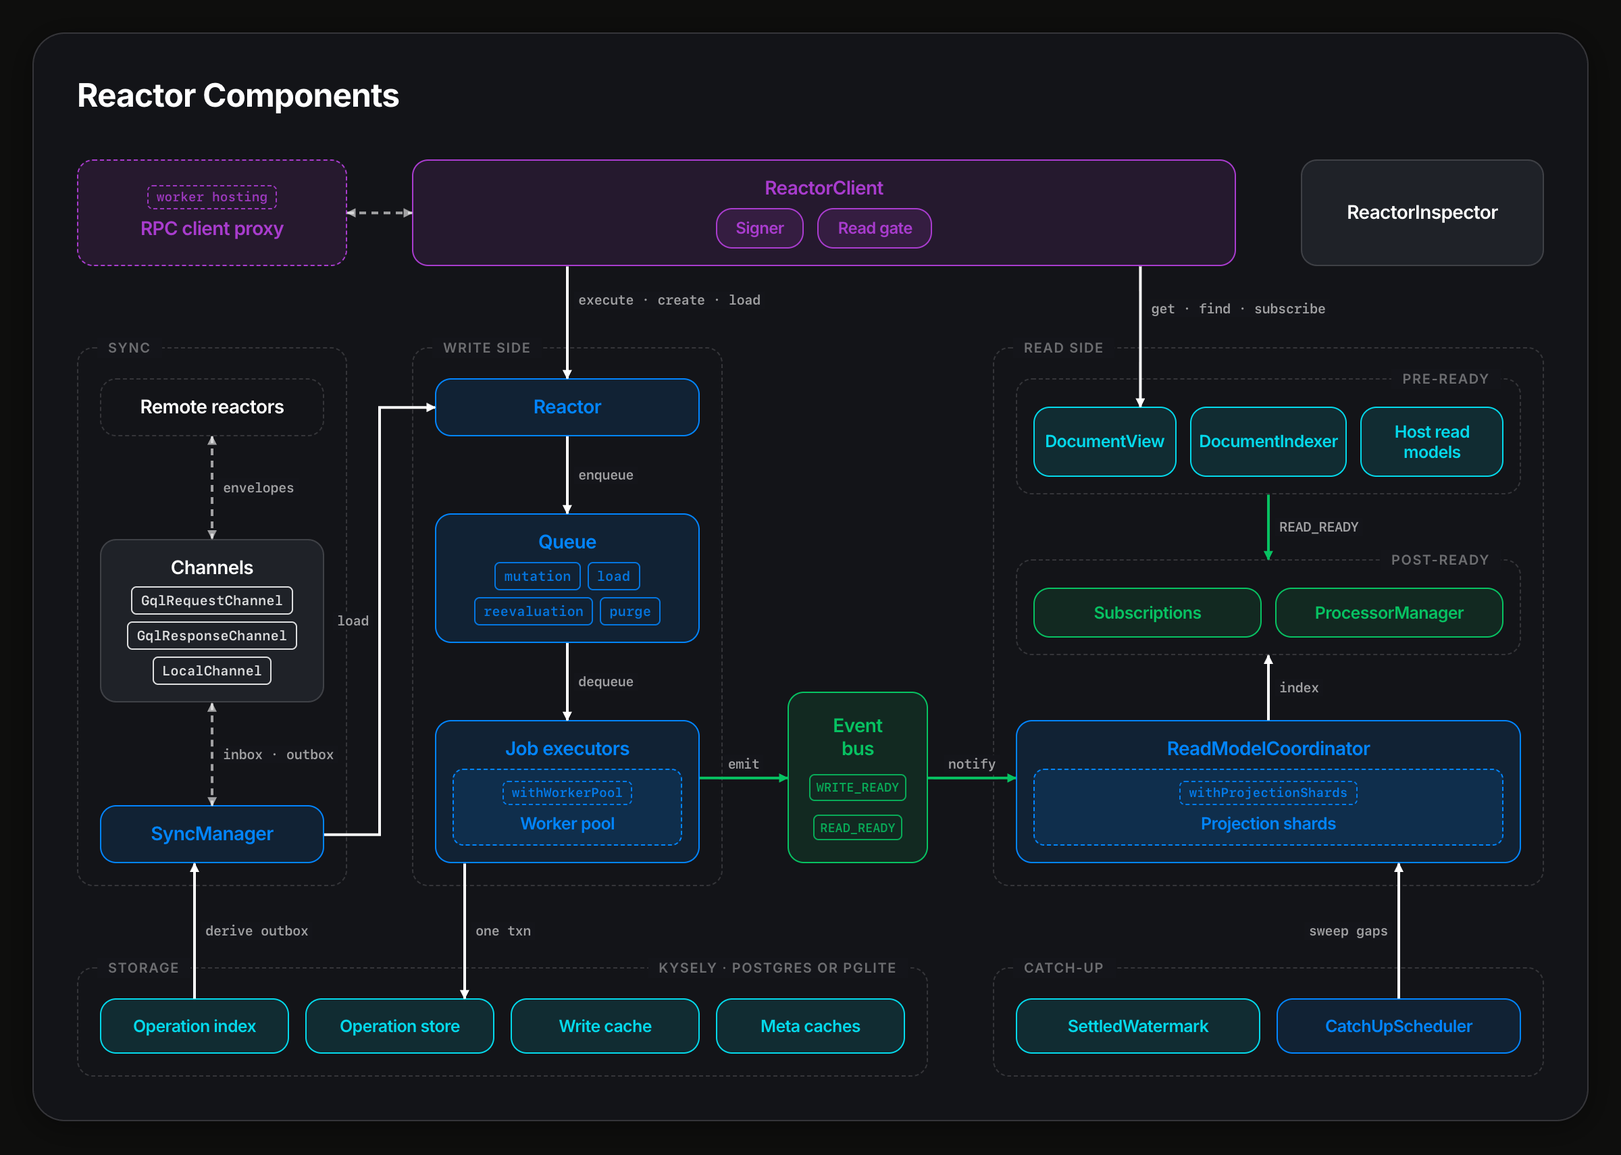
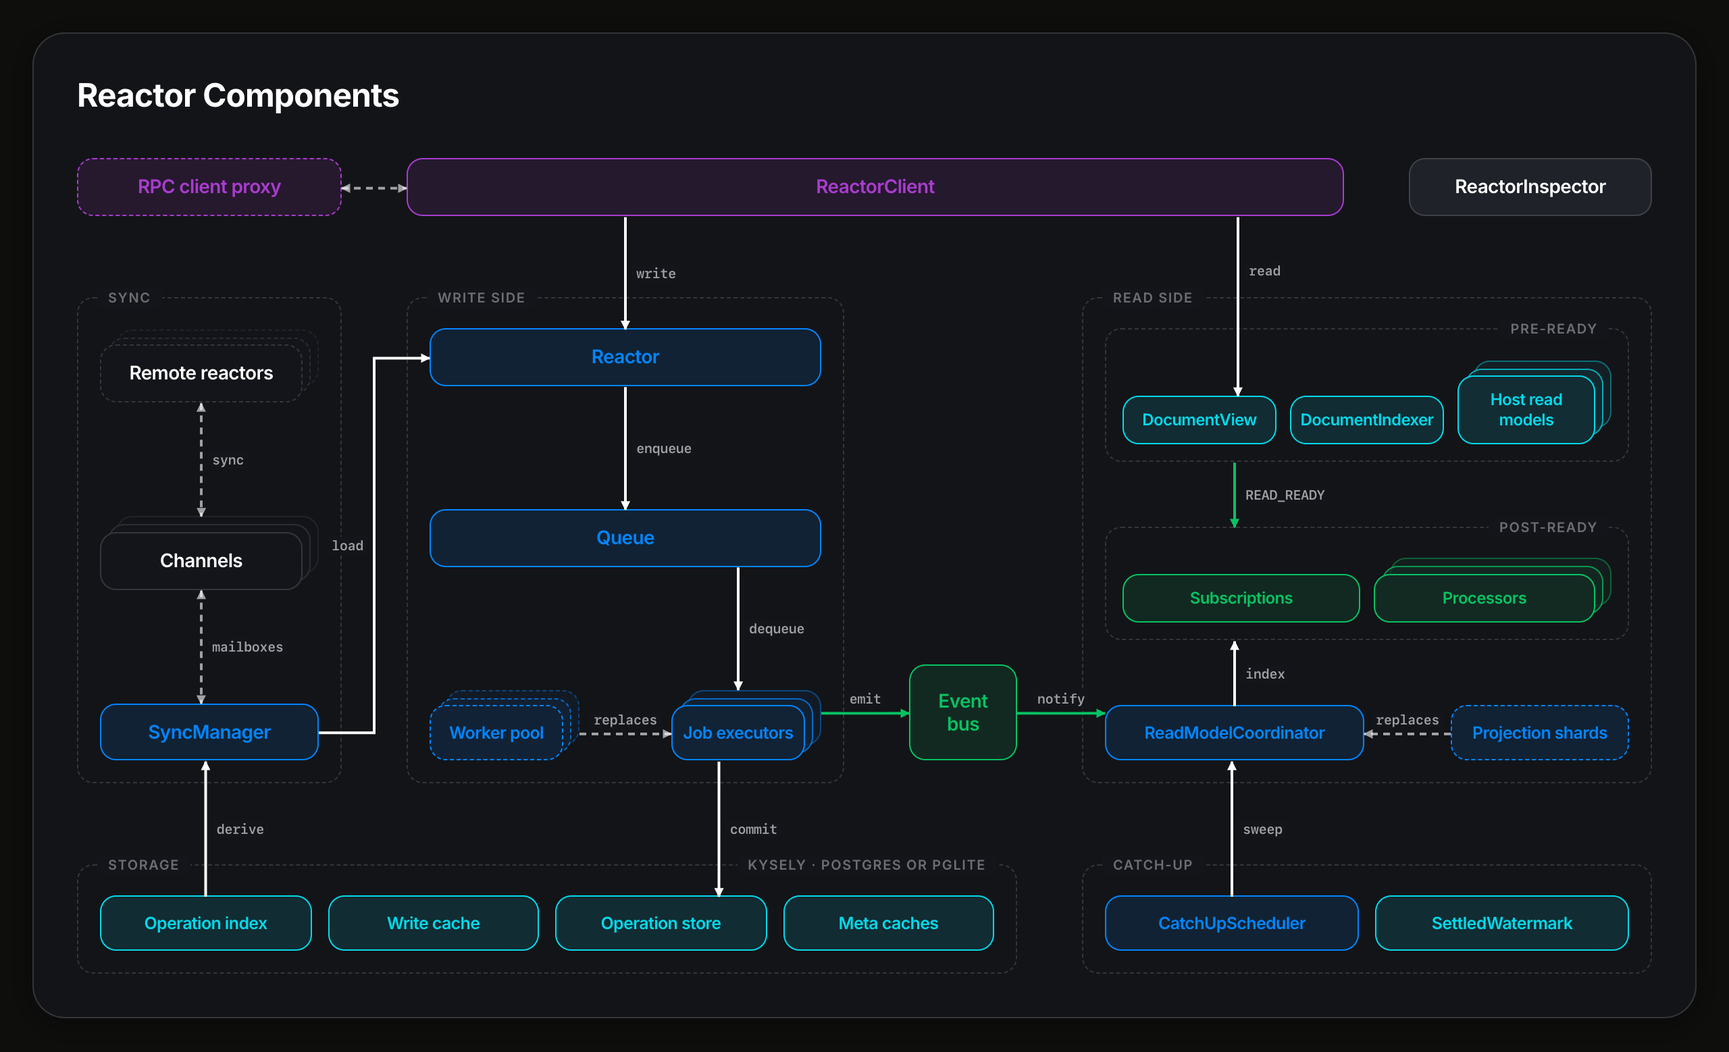
reactor components: name-only boxes, fan-out stacks, one-word edges
Boxes now hold only the component's name: no chips, tags or nested
boxes. The worker-pool and projection-shard variants become top-level
dashed boxes with a "replaces" edge. Components with many instances at
runtime (job executors, worker pool, channels, remote reactors, host
read models, processors) are drawn as stacks using a new reusable
.fanout class in components.css. Every edge label is one word.

diff --git a/pages/reactor-components.html b/pages/reactor-components.html
@@ -10,7 +10,7 @@
   <link rel="stylesheet" href="../css/components.css">
   <style>
     .frame {
-      max-width: 1200px;
+      max-width: 1280px;
     }
     .card {
       height: auto;
@@ -133,7 +133,7 @@
     .diagram {
       position: relative;
       display: grid;
-      grid-template-columns: 200px 230px 104px 1fr;
+      grid-template-columns: 196px 324px 80px 1fr;
       column-gap: 48px;
       row-gap: 60px;
     }
@@ -146,46 +146,34 @@
     .client-row {
       grid-column: 1 / -1;
       display: grid;
-      grid-template-columns: 200px 1fr 180px;
+      grid-template-columns: 196px 1fr 180px;
       column-gap: 48px;
     }
-    .client-inner { display: flex; gap: 10px; }
-    .client-inner .box { padding: 7px 14px; }
-    .client-inner .box-title { font-size: 12px; }
-
     .bus {
       grid-column: 3;
-      border: 1px solid var(--accent-green);
-      background: var(--accent-green-bg);
-      color: var(--accent-green);
-      border-radius: var(--radius-md);
-      display: flex;
-      flex-direction: column;
-      align-items: center;
-      justify-content: center;
-      gap: 10px;
-      padding: 16px 8px;
       align-self: end;
       margin-bottom: 17px;
+      padding: 18px 6px;
     }
-    .bus .box-title { text-align: center; }
-    .bus .chip { font-size: 9px; padding: 2px 4px; }
-
-    .read-col { justify-content: space-between; }
-    .phase-group { padding: 20px 12px 12px; }
-    .phase-group .row { display: grid; gap: 10px; }
+    .pair {
+      display: grid;
+      grid-template-columns: 1fr 1fr;
+      column-gap: 68px;
+      align-items: end;
+    }
+    .pair.read { grid-template-columns: 1fr 132px; column-gap: 64px; }
+    .pair .box { padding: 12px 6px; }
+    .pair .box-title { font-size: 12.5px; white-space: nowrap; }
+    .phase-group { padding: 22px 12px 12px; }
+    .phase-group .row { display: grid; gap: 10px; align-items: end; }
     .phase-group .row.three { grid-template-columns: 1fr 1fr 1fr; }
     .phase-group .row.two { grid-template-columns: 1fr 1fr; }
     .phase-group .box { padding: 10px 6px; }
-    .phase-group .box-title { font-size: 12.5px; }
-
-    .sub { width: 100%; padding: 8px 10px; border-radius: var(--radius-sm); }
-    .sub .box-title { font-size: 12.5px; }
-
+    .phase-group .box-title { font-size: 12px; }
     .bottom-row {
       grid-column: 1 / -1;
       display: grid;
-      grid-template-columns: 200px 230px 104px 1fr;
+      grid-template-columns: 196px 324px 80px 1fr;
       column-gap: 48px;
     }
     .storage {
@@ -207,44 +195,51 @@
 <body>
   <!--
     Element → source map (paths relative to packages/reactor/src in the powerhouse monorepo).
-    Line numbers as of main a30562aeca.
+    Line numbers as of main a30562aeca. Stacks (.fanout) mark components with many instances at runtime.
 
     RPC client proxy ......... rpc/client-proxy.ts:38 (createReactorClientProxy); rpc/host-server.ts:20 (ReactorHostServer); rpc/transport.ts:10 (MessagePort)
-    ReactorClient ............ client/reactor-client.ts:190; built by core/reactor-client-builder.ts:287
-      Signer ................. reactor-client.ts:1033 (signActions); reactor-client-builder.ts:267
-      Read gate .............. reactor-client.ts:198, :1806; decision/read-gate.ts:183 (IReadGate), :239 Bare, :356 Model; reactor-client-builder.ts:159-174
+    ReactorClient ............ client/reactor-client.ts:190 (signer, read gate :198, :1806); built by core/reactor-client-builder.ts:287
     ReactorInspector ......... inspector/reactor-inspector.ts:101; inspector/from-module.ts:42
-    execute · create · load .. reactor-client.ts:1040 (reactor.execute), :860 (executeBatch), :1476 (loadBatch)
-    get · find · subscribe ... reactor-client.ts:331-343, :641-656, :1706-1758; Reactor.get core/reactor.ts:226 (no gate in Reactor)
+    write .................... reactor-client.ts:1040 (reactor.execute), :860 (executeBatch), :1476 (loadBatch)
+    read ..................... reactor-client.ts:331-343 (get), :641-656 (find), :1706-1758 (subscribe); gated in the client, Reactor.get core/reactor.ts:226 is not
     Reactor .................. core/reactor.ts:83
-    Queue .................... queue/queue.ts:22; job kinds queue/types.ts:12
-    Job executors ............ executor/simple-job-executor-manager.ts (core/reactor-builder.ts:1132); executor/simple-job-executor.ts
-      Worker pool ............ executor/worker-pool-job-executor-manager.ts (reactor-builder.ts:693 withWorkerPool, :1115)
-    one txn .................. executor/execution-scope.ts:78, :94-106
+    enqueue .................. core/reactor.ts:710, :773; queue/queue.ts:154
+    Queue .................... queue/queue.ts:22
+    dequeue .................. executor/simple-job-executor-manager.ts:88, :139
+    Job executors [stack] .... executor/simple-job-executor-manager.ts:82 (one SimpleJobExecutor per i < numExecutors); core/reactor-builder.ts:1089, :1161
+    Worker pool [stack] ...... executor/worker-pool-job-executor-manager.ts:132 (one worker per i < numWorkers); core/reactor-builder.ts:693 withWorkerPool, :1115
+      replaces ............... reactor-builder.ts:1091-1158 (pool manager instead of SimpleJobExecutorManager)
+    commit ................... executor/execution-scope.ts:78, :94-106; executor/simple-job-executor.ts:1951-2043, :839
     Event bus ................ events/event-bus.ts; events/types.ts:57-68
-      emit WRITE_READY ....... simple-job-executor.ts:461; worker-pool-job-executor-manager.ts:398
+      emit ................... simple-job-executor.ts:461; worker-pool-job-executor-manager.ts:398 (JOB_WRITE_READY)
       notify ................. read-models/coordinator.ts:119
     ReadModelCoordinator ..... read-models/coordinator.ts:96 (reactor-builder.ts:1331)
-      Projection shards ...... projection/projection-shard-manager.ts:186 (reactor-builder.ts:710 withProjectionShards, :1324)
-    pre-ready ................ coordinator.ts:252-264; reactor-builder.ts:1292-1296
+    Projection shards ........ projection/projection-shard-manager.ts:186 (reactor-builder.ts:710 withProjectionShards, :1324);
+                               single box: shardCount must be 1 (reactor-builder.ts:292-298)
+      replaces ............... reactor-builder.ts:1323-1334 (shard manager instead of ReadModelCoordinator)
+    index .................... coordinator.ts:252-264 (pre-ready), :282-294 (post-ready)
+    pre-ready ................ reactor-builder.ts:1292-1296
       DocumentView ........... read-models/document-view.ts:63
       DocumentIndexer ........ storage/kysely/document-indexer.ts:66
-      Host read models ....... reactor-builder.ts:473 (withReadModel), :485 (withReadModelFactory)
+      Host read models [stack]  reactor-builder.ts:473 (withReadModel pushes), :485, :1166-1168, :1269-1290 (callerReadModels list)
     READ_READY ............... coordinator.ts:272
-    post-ready ............... coordinator.ts:282-294; reactor-builder.ts:1331-1334
-      Subscriptions .......... subs/subscription-notification-read-model.ts:20
-      ProcessorManager ....... processors/processor-manager.ts:84
-    Remote reactors .......... peers reached through the channels below
-    Channels ................. sync/channels/gql-req-channel.ts:160, gql-res-channel.ts:23, local-channel.ts:73
+    post-ready ............... reactor-builder.ts:1331-1334
+      Subscriptions .......... subs/subscription-notification-read-model.ts:20 (one instance, reactor-builder.ts:1244)
+      Processors [stack] ..... processors/processor-manager.ts:84, :89 (processorsByDrive: Map<string, Bound[]>), :741
+    Remote reactors [stack] .. sync/sync-manager.ts:312 (remotes: Map<string, Remote>)
+    sync ..................... sync/channels/gql-req-channel.ts:1022, :1382; sync/channels/local-channel.ts:73
+    Channels [stack] ......... one per Remote (sync-manager.ts:312); gql-req-channel.ts:160, gql-res-channel.ts:23, local-channel.ts:73
+    mailboxes ................ sync/interfaces.ts:37-102 (inbox, outbox, deadLetter); sync-manager.ts:2116-2118
     SyncManager .............. sync/sync-manager.ts; sync/sync-builder.ts:131 (reactor-builder.ts:1402, :1415)
       load ................... sync-manager.ts:2863 (reactor.load), :3064 (reactor.loadBatch)
-      derive outbox .......... sync-manager.ts:3463-3491 (operationIndex.find ≤ watermark.settledThrough)
+      derive ................. sync-manager.ts:3463-3491 (operationIndex.find ≤ watermark.settledThrough)
     Operation index .......... cache/kysely-operation-index.ts:158
-    Operation store .......... storage/kysely/store.ts:46
     Write cache .............. cache/kysely-write-cache.ts:164; keyframes storage/kysely/keyframe-store.ts:7
+    Operation store .......... storage/kysely/store.ts:46
     Meta caches .............. cache/document-meta-cache.ts:37; cache/collection-membership-cache.ts:13
-    SettledWatermark ......... catch-up/settled-watermark.ts:225 (reactor-builder.ts:1037)
     CatchUpScheduler ......... catch-up/scheduler.ts:54 (reactor-builder.ts:1043); sweep sources :1344-1351
+      sweep .................. catch-up/scheduler.ts:147, :166
+    SettledWatermark ......... catch-up/settled-watermark.ts:225 (reactor-builder.ts:1037)
   -->
   <div class="frame">
     <div class="card">
@@ -255,92 +250,50 @@
           <svg class="wires" id="wires"></svg>
 
           <div class="client-row">
-            <div class="box accent-purple variant" id="rpc">
-              <span class="variant-tag">worker hosting</span>
-              <div class="box-title">RPC client proxy</div>
-            </div>
-            <div class="box accent-purple" id="client">
-              <div class="box-title">ReactorClient</div>
-              <div class="client-inner">
-                <div class="box accent-purple"><div class="box-title">Signer</div></div>
-                <div class="box accent-purple"><div class="box-title">Read gate</div></div>
-              </div>
-            </div>
-            <div class="box" id="inspector">
-              <div class="box-title">ReactorInspector</div>
-            </div>
+            <div class="box accent-purple variant" id="rpc"><div class="box-title">RPC client proxy</div></div>
+            <div class="box accent-purple" id="client"><div class="box-title">ReactorClient</div></div>
+            <div class="box" id="inspector"><div class="box-title">ReactorInspector</div></div>
           </div>
 
           <div class="group col-stack" style="grid-column:1">
             <span class="group-label">Sync</span>
-            <div class="box variant" id="remote">
-              <div class="box-title">Remote reactors</div>
-            </div>
-            <div class="box" id="channels">
-              <div class="box-title">Channels</div>
-              <div class="chips">
-                <span class="chip">GqlRequestChannel</span>
-                <span class="chip">GqlResponseChannel</span>
-                <span class="chip">LocalChannel</span>
-              </div>
-            </div>
-            <div class="box accent-blue" id="sync">
-              <div class="box-title">SyncManager</div>
-            </div>
+            <div class="fanout dashed" id="remote"><div class="box variant"><div class="box-title">Remote reactors</div></div></div>
+            <div class="fanout" id="channels"><div class="box"><div class="box-title">Channels</div></div></div>
+            <div class="box accent-blue" id="sync"><div class="box-title">SyncManager</div></div>
           </div>
 
           <div class="group col-stack" style="grid-column:2">
             <span class="group-label">Write side</span>
-            <div class="box accent-blue" id="reactor">
-              <div class="box-title">Reactor</div>
-            </div>
-            <div class="box accent-blue" id="queue">
-              <div class="box-title">Queue</div>
-              <div class="chips">
-                <span class="chip">mutation</span>
-                <span class="chip">load</span>
-                <span class="chip">reevaluation</span>
-                <span class="chip">purge</span>
-              </div>
-            </div>
-            <div class="box accent-blue" id="executor">
-              <div class="box-title">Job executors</div>
-              <div class="sub box accent-blue variant" id="workerpool">
-                <span class="variant-tag">withWorkerPool</span>
-                <div class="box-title">Worker pool</div>
-              </div>
+            <div class="box accent-blue" id="reactor"><div class="box-title">Reactor</div></div>
+            <div class="box accent-blue" id="queue"><div class="box-title">Queue</div></div>
+            <div class="pair">
+              <div class="fanout accent-blue dashed" id="workerpool"><div class="box accent-blue variant"><div class="box-title">Worker pool</div></div></div>
+              <div class="fanout accent-blue" id="executor"><div class="box accent-blue"><div class="box-title">Job executors</div></div></div>
             </div>
           </div>
 
-          <div class="bus" id="bus">
-            <div class="box-title">Event<br>bus</div>
-            <span class="chip">WRITE_READY</span>
-            <span class="chip">READ_READY</span>
-          </div>
+          <div class="box accent-green bus" id="bus"><div class="box-title">Event<br>bus</div></div>
 
-          <div class="group col-stack read-col" style="grid-column:4">
+          <div class="group col-stack" style="grid-column:4">
             <span class="group-label">Read side</span>
             <div class="group phase-group" id="pre">
               <span class="group-label right">pre-ready</span>
               <div class="row three">
                 <div class="box accent-cyan" id="docview"><div class="box-title">DocumentView</div></div>
                 <div class="box accent-cyan" id="indexer"><div class="box-title">DocumentIndexer</div></div>
-                <div class="box accent-cyan" id="hostrm"><div class="box-title">Host read models</div></div>
+                <div class="fanout accent-cyan" id="hostrm"><div class="box accent-cyan"><div class="box-title">Host read models</div></div></div>
               </div>
             </div>
             <div class="group phase-group" id="post">
               <span class="group-label right">post-ready</span>
               <div class="row two">
                 <div class="box accent-green" id="subs"><div class="box-title">Subscriptions</div></div>
-                <div class="box accent-green" id="processors"><div class="box-title">ProcessorManager</div></div>
+                <div class="fanout accent-green" id="processors"><div class="box accent-green"><div class="box-title">Processors</div></div></div>
               </div>
             </div>
-            <div class="box accent-blue" id="coordinator">
-              <div class="box-title">ReadModelCoordinator</div>
-              <div class="sub box accent-blue variant" id="shards">
-                <span class="variant-tag">withProjectionShards</span>
-                <div class="box-title">Projection shards</div>
-              </div>
+            <div class="pair read">
+              <div class="box accent-blue" id="coordinator"><div class="box-title">ReadModelCoordinator</div></div>
+              <div class="box accent-blue variant" id="shards"><div class="box-title">Projection shards</div></div>
             </div>
           </div>
 
@@ -349,14 +302,14 @@
               <span class="group-label">Storage</span>
               <span class="group-label right">Kysely · Postgres or PGlite</span>
               <div class="box accent-cyan" id="opindex"><div class="box-title">Operation index</div></div>
-              <div class="box accent-cyan" id="opstore"><div class="box-title">Operation store</div></div>
               <div class="box accent-cyan" id="writecache"><div class="box-title">Write cache</div></div>
+              <div class="box accent-cyan" id="opstore"><div class="box-title">Operation store</div></div>
               <div class="box accent-cyan" id="metacache"><div class="box-title">Meta caches</div></div>
             </div>
             <div class="group catchup">
               <span class="group-label">Catch-up</span>
-              <div class="box accent-cyan" id="watermark"><div class="box-title">SettledWatermark</div></div>
               <div class="box accent-blue" id="catchup"><div class="box-title">CatchUpScheduler</div></div>
+              <div class="box accent-cyan" id="watermark"><div class="box-title">SettledWatermark</div></div>
             </div>
           </div>
         </div>
@@ -371,8 +324,11 @@
     const NS = 'http://www.w3.org/2000/svg';
 
     function wires(R) {
-      const c = R('client'), r = R('reactor'), q = R('queue'), e = R('executor');
-      const b = R('bus'), co = R('coordinator'), pre = R('pre'), post = R('post');
+      // A .fanout's copies sit up and to the right of its front box, so wires
+      // arriving from above or the right stop at the back copy's edge.
+      const F = 12;
+      const c = R('client'), r = R('reactor'), q = R('queue'), e = R('executor'), wp = R('workerpool');
+      const b = R('bus'), co = R('coordinator'), sh = R('shards'), pre = R('pre'), post = R('post');
       const s = R('sync'), ch = R('channels'), rem = R('remote');
       const oi = R('opindex'), os = R('opstore'), rpc = R('rpc');
       const cu = R('catchup'), dv = R('docview');
@@ -381,20 +337,22 @@
       const gapL = (s.r + r.l) / 2;
       return [
         { cls: 'w-dash', both: true, pts: [[rpc.r, rpc.cy], [c.l, rpc.cy]], label: '', seg: 0 },
-        { cls: 'w-call', pts: [[r.cx, c.b], [r.cx, r.t]], label: 'execute · create · load', seg: 0, at: 0.3 },
-        { cls: 'w-call', pts: [[dvx, c.b], [dvx, dv.t]], label: 'get · find · subscribe', seg: 0, at: 0.3 },
+        { cls: 'w-call', pts: [[r.cx, c.b], [r.cx, r.t]], label: 'write', seg: 0 },
+        { cls: 'w-call', pts: [[dvx, c.b], [dvx, dv.t]], label: 'read', seg: 0, at: 0.3 },
         { cls: 'w-call', pts: [[r.cx, r.b], [r.cx, q.t]], label: 'enqueue', seg: 0 },
-        { cls: 'w-call', pts: [[q.cx, q.b], [q.cx, e.t]], label: 'dequeue', seg: 0 },
-        { cls: 'w-event', pts: [[e.r, b.cy], [b.l, b.cy]], label: 'emit', seg: 0 },
+        { cls: 'w-call', pts: [[e.cx, q.b], [e.cx, e.t - F]], label: 'dequeue', seg: 0 },
+        { cls: 'w-dash', pts: [[wp.r + F, wp.cy], [e.l, wp.cy]], label: 'replaces', seg: 0 },
+        { cls: 'w-event', pts: [[e.r + F, b.cy], [b.l, b.cy]], label: 'emit', seg: 0 },
         { cls: 'w-event', pts: [[b.r, b.cy], [co.l, b.cy]], label: 'notify', seg: 0 },
+        { cls: 'w-dash', pts: [[sh.l, sh.cy], [co.r, sh.cy]], label: 'replaces', seg: 0 },
         { cls: 'w-call', pts: [[co.cx, co.t], [co.cx, post.b]], label: 'index', seg: 0 },
-        { cls: 'w-event', pts: [[post.cx, pre.b], [post.cx, post.t]], label: 'READ_READY', seg: 0 },
-        { cls: 'w-call', pts: [[tx, e.b], [tx, os.t]], label: 'one txn', seg: 0 },
+        { cls: 'w-event', pts: [[co.cx, pre.b], [co.cx, post.t]], label: 'READ_READY', seg: 0 },
+        { cls: 'w-call', pts: [[tx, e.b], [tx, os.t]], label: 'commit', seg: 0 },
         { cls: 'w-call', pts: [[s.r, s.cy], [gapL, s.cy], [gapL, r.cy], [r.l, r.cy]], label: 'load', seg: 1, lx: 'left' },
-        { cls: 'w-call', pts: [[oi.cx, oi.t], [oi.cx, s.b]], label: 'derive outbox', seg: 0 },
-        { cls: 'w-dash', both: true, pts: [[ch.cx, ch.b], [ch.cx, s.t]], label: 'inbox · outbox', seg: 0 },
-        { cls: 'w-dash', both: true, pts: [[rem.cx, rem.b], [rem.cx, ch.t]], label: 'envelopes', seg: 0 },
-        { cls: 'w-call', pts: [[cu.cx, cu.t], [cu.cx, co.b]], label: 'sweep gaps', seg: 0, lx: 'left' },
+        { cls: 'w-call', pts: [[oi.cx, oi.t], [oi.cx, s.b]], label: 'derive', seg: 0 },
+        { cls: 'w-dash', both: true, pts: [[ch.cx, ch.b], [ch.cx, s.t]], label: 'mailboxes', seg: 0 },
+        { cls: 'w-dash', both: true, pts: [[rem.cx, rem.b], [rem.cx, ch.t - F]], label: 'sync', seg: 0 },
+        { cls: 'w-call', pts: [[cu.cx, cu.t], [cu.cx, co.b]], label: 'sweep', seg: 0 },
       ];
     }
 

diff --git a/css/components.css b/css/components.css
@@ -378,3 +378,48 @@
 .gap-sm { gap: var(--space-sm); }
 .gap-md { gap: var(--space-md); }
 .gap-lg { gap: var(--space-lg); }
+
+/* ========================================
+   Fan-out stack
+   A component with many instances at runtime: wrap its box in .fanout and
+   two offset copies show behind it. Set --fanout-line and --fanout-fill
+   (or an .accent-* class) on the wrapper; add .dashed for dashed edges.
+   The wrapper reserves the offset, so wires attach to the front box.
+   ======================================== */
+
+.fanout {
+  --fanout-line: var(--border-glass);
+  --fanout-fill: transparent;
+  --fanout-offset: 6px;
+  position: relative;
+  isolation: isolate;
+  display: flex;
+  margin-top: calc(var(--fanout-offset) * 2);
+  margin-right: calc(var(--fanout-offset) * 2);
+}
+.fanout.accent-cyan   { --fanout-line: var(--accent-cyan);   --fanout-fill: var(--accent-cyan-bg); }
+.fanout.accent-blue   { --fanout-line: var(--accent-blue);   --fanout-fill: var(--accent-blue-bg); }
+.fanout.accent-green  { --fanout-line: var(--accent-green);  --fanout-fill: var(--accent-green-bg); }
+.fanout.accent-purple { --fanout-line: var(--accent-purple); --fanout-fill: var(--accent-purple-bg); }
+
+.fanout::before,
+.fanout::after {
+  content: '';
+  position: absolute;
+  inset: 0;
+  border: 1px solid var(--fanout-line);
+  border-radius: var(--radius-md);
+  background: linear-gradient(var(--fanout-fill), var(--fanout-fill)), var(--bg-surface);
+}
+.fanout::before { transform: translate(var(--fanout-offset), calc(var(--fanout-offset) * -1)); z-index: 1; opacity: 0.75; }
+.fanout::after  { transform: translate(calc(var(--fanout-offset) * 2), calc(var(--fanout-offset) * -2)); z-index: 0; opacity: 0.45; }
+.fanout.dashed::before,
+.fanout.dashed::after { border-style: dashed; }
+
+.fanout > * {
+  position: relative;
+  z-index: 2;
+  flex: 1;
+  background-color: var(--bg-surface) !important;
+  background-image: linear-gradient(var(--fanout-fill), var(--fanout-fill)) !important;
+}

diff --git a/index.html b/index.html
@@ -437,7 +437,7 @@
       <p>packages/reactor as the builders wire it &mdash; client surface, write side, event bus, read side, sync, storage and catch-up, with the worker-pool and projection-shard variants.</p>
       <div class="meta">
         <span class="tag">Reactor Architecture</span>
-        <span>1200 &times; 900</span>
+        <span>1280 &times; 900</span>
       </div>
     </a>
 
